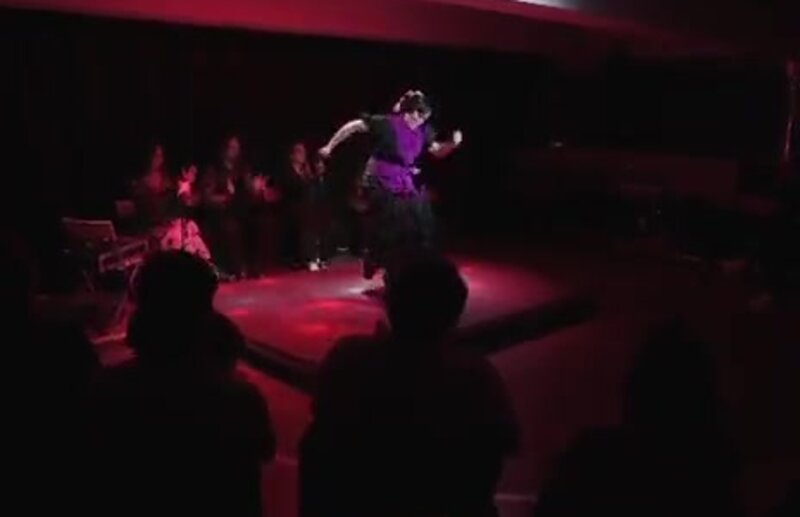
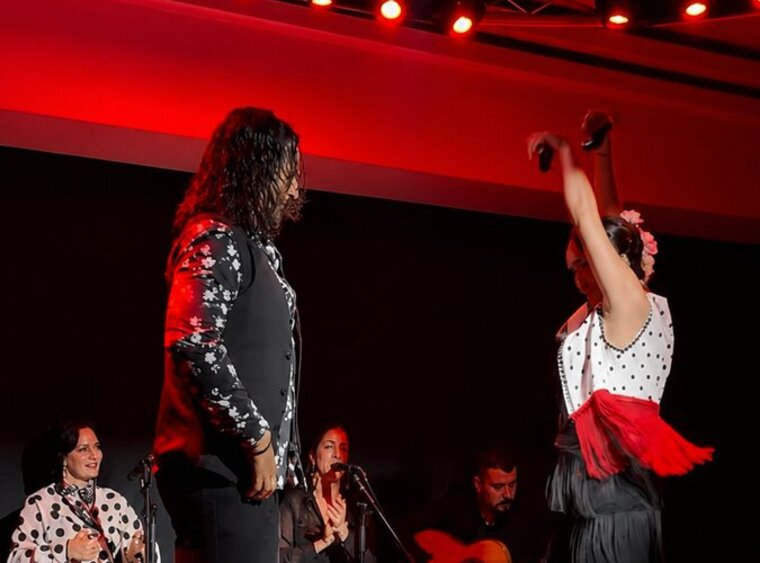
updates

diff --git a/tablao.html b/tablao.html
@@ -153,9 +153,9 @@
     <div class="section-label">Imágenes</div>
     <h2 class="section-title">En escena</h2>
     <div style="display:grid;grid-template-columns:repeat(3,1fr);gap:4px;margin-top:28px">
-      <div class="photo-slot" style="aspect-ratio:4/3"><img src="assets/photos/tablao-show-1.jpg" alt="" loading="lazy"></div>
-      <div class="photo-slot" style="aspect-ratio:4/3"><img src="assets/photos/tablao-show-2.jpg" alt="" loading="lazy"></div>
-      <div class="photo-slot" style="aspect-ratio:4/3"><img src="assets/photos/tablao-show-3.jpg" alt="" loading="lazy"></div>
+      <div class="photo-slot" style="aspect-ratio:3/4"><img src="assets/photos/tablao-video-1.jpg" alt="Escena del tablao flamenco" loading="lazy"></div>
+      <div class="photo-slot" style="aspect-ratio:3/4"><img src="assets/photos/tablao-video-2.jpg" alt="Bailaora en escena" loading="lazy"></div>
+      <div class="photo-slot" style="aspect-ratio:3/4"><img src="assets/photos/tablao-video-3.jpg" alt="Cuadro flamenco en acción" loading="lazy"></div>
     </div>
     <div class="mt-md text-center"><a href="galeria.html" class="btn btn-md btn-outline">Ver galería completa</a></div>
   </div>